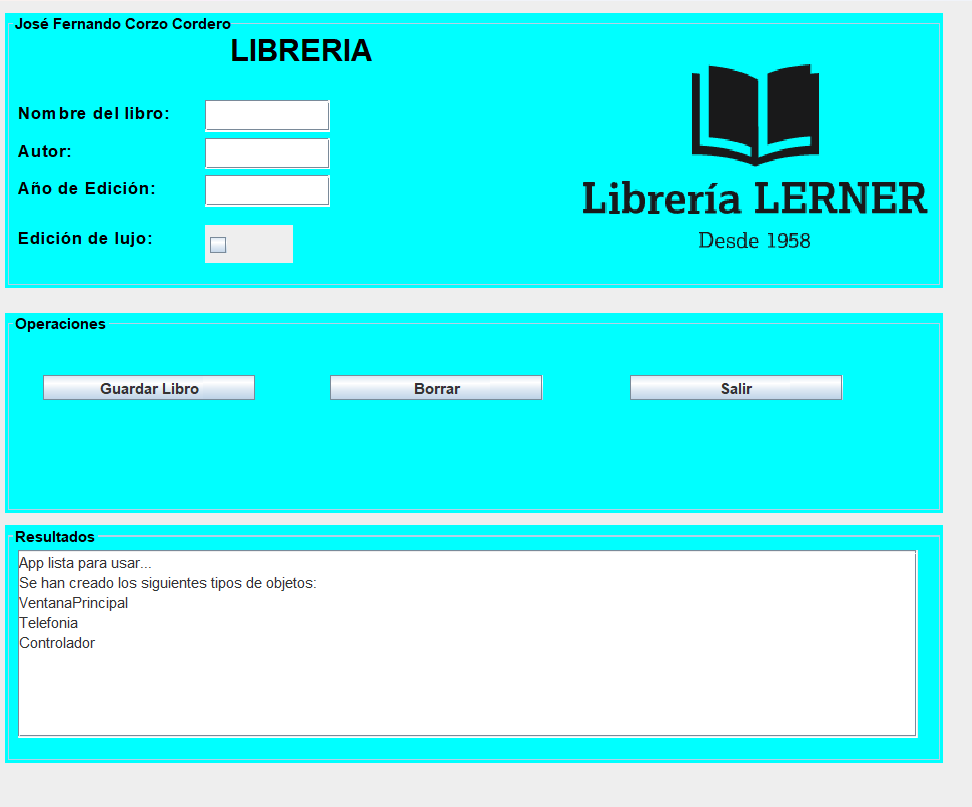
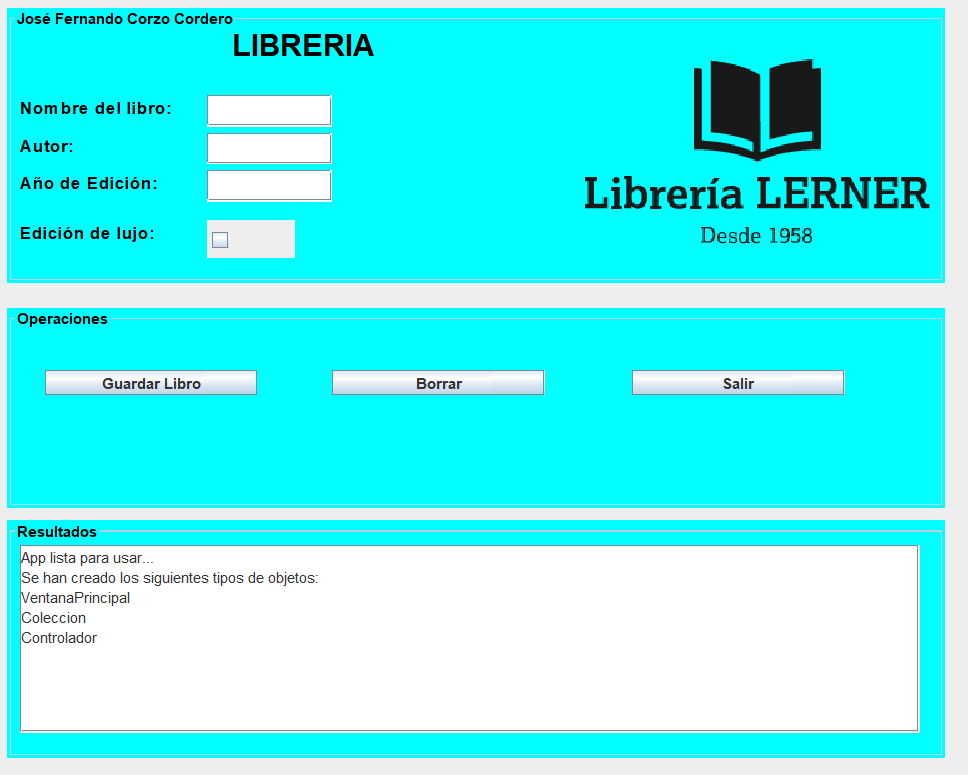
1

Changed region(s): [[0.0, 0.0, 0.9917, 0.991], [0.3409, 0.4645, 0.5888, 0.5265], [0.6508, 0.4645, 0.8678, 0.5265]]

diff --git a/controlador/Controlador.java b/controlador/Controlador.java
@@ -31,7 +31,7 @@ public class Controlador implements ActionListener
         this.libro=pPlan;
         
         this.venPrin.miPanelOperaciones.agregarOyentesBotones(this);
-        this.venPrin.miPanelResultados.mostrarResultado("App lista para usar... \nSe han creado los siguientes tipos de objetos: \nVentanaPrincipal\nTelefonia\nControlador");
+        this.venPrin.miPanelResultados.mostrarResultado("App lista para usar... \nSe han creado los siguientes tipos de objetos: \nVentanaPrincipal\nColeccion\nControlador");
     }
 
     @Override

diff --git a/vista/VentanaPrincipal.java b/vista/VentanaPrincipal.java
@@ -38,7 +38,7 @@ public class VentanaPrincipal extends JFrame
         this.add(miPanelResultados);
 
         //Caracteristicas de la ventana
-        this.setTitle("Telefonia");
+        this.setTitle("Libreria");
         this.setSize(820,700);
         this.setLocationRelativeTo(null);
         this.setDefaultCloseOperation(EXIT_ON_CLOSE);
